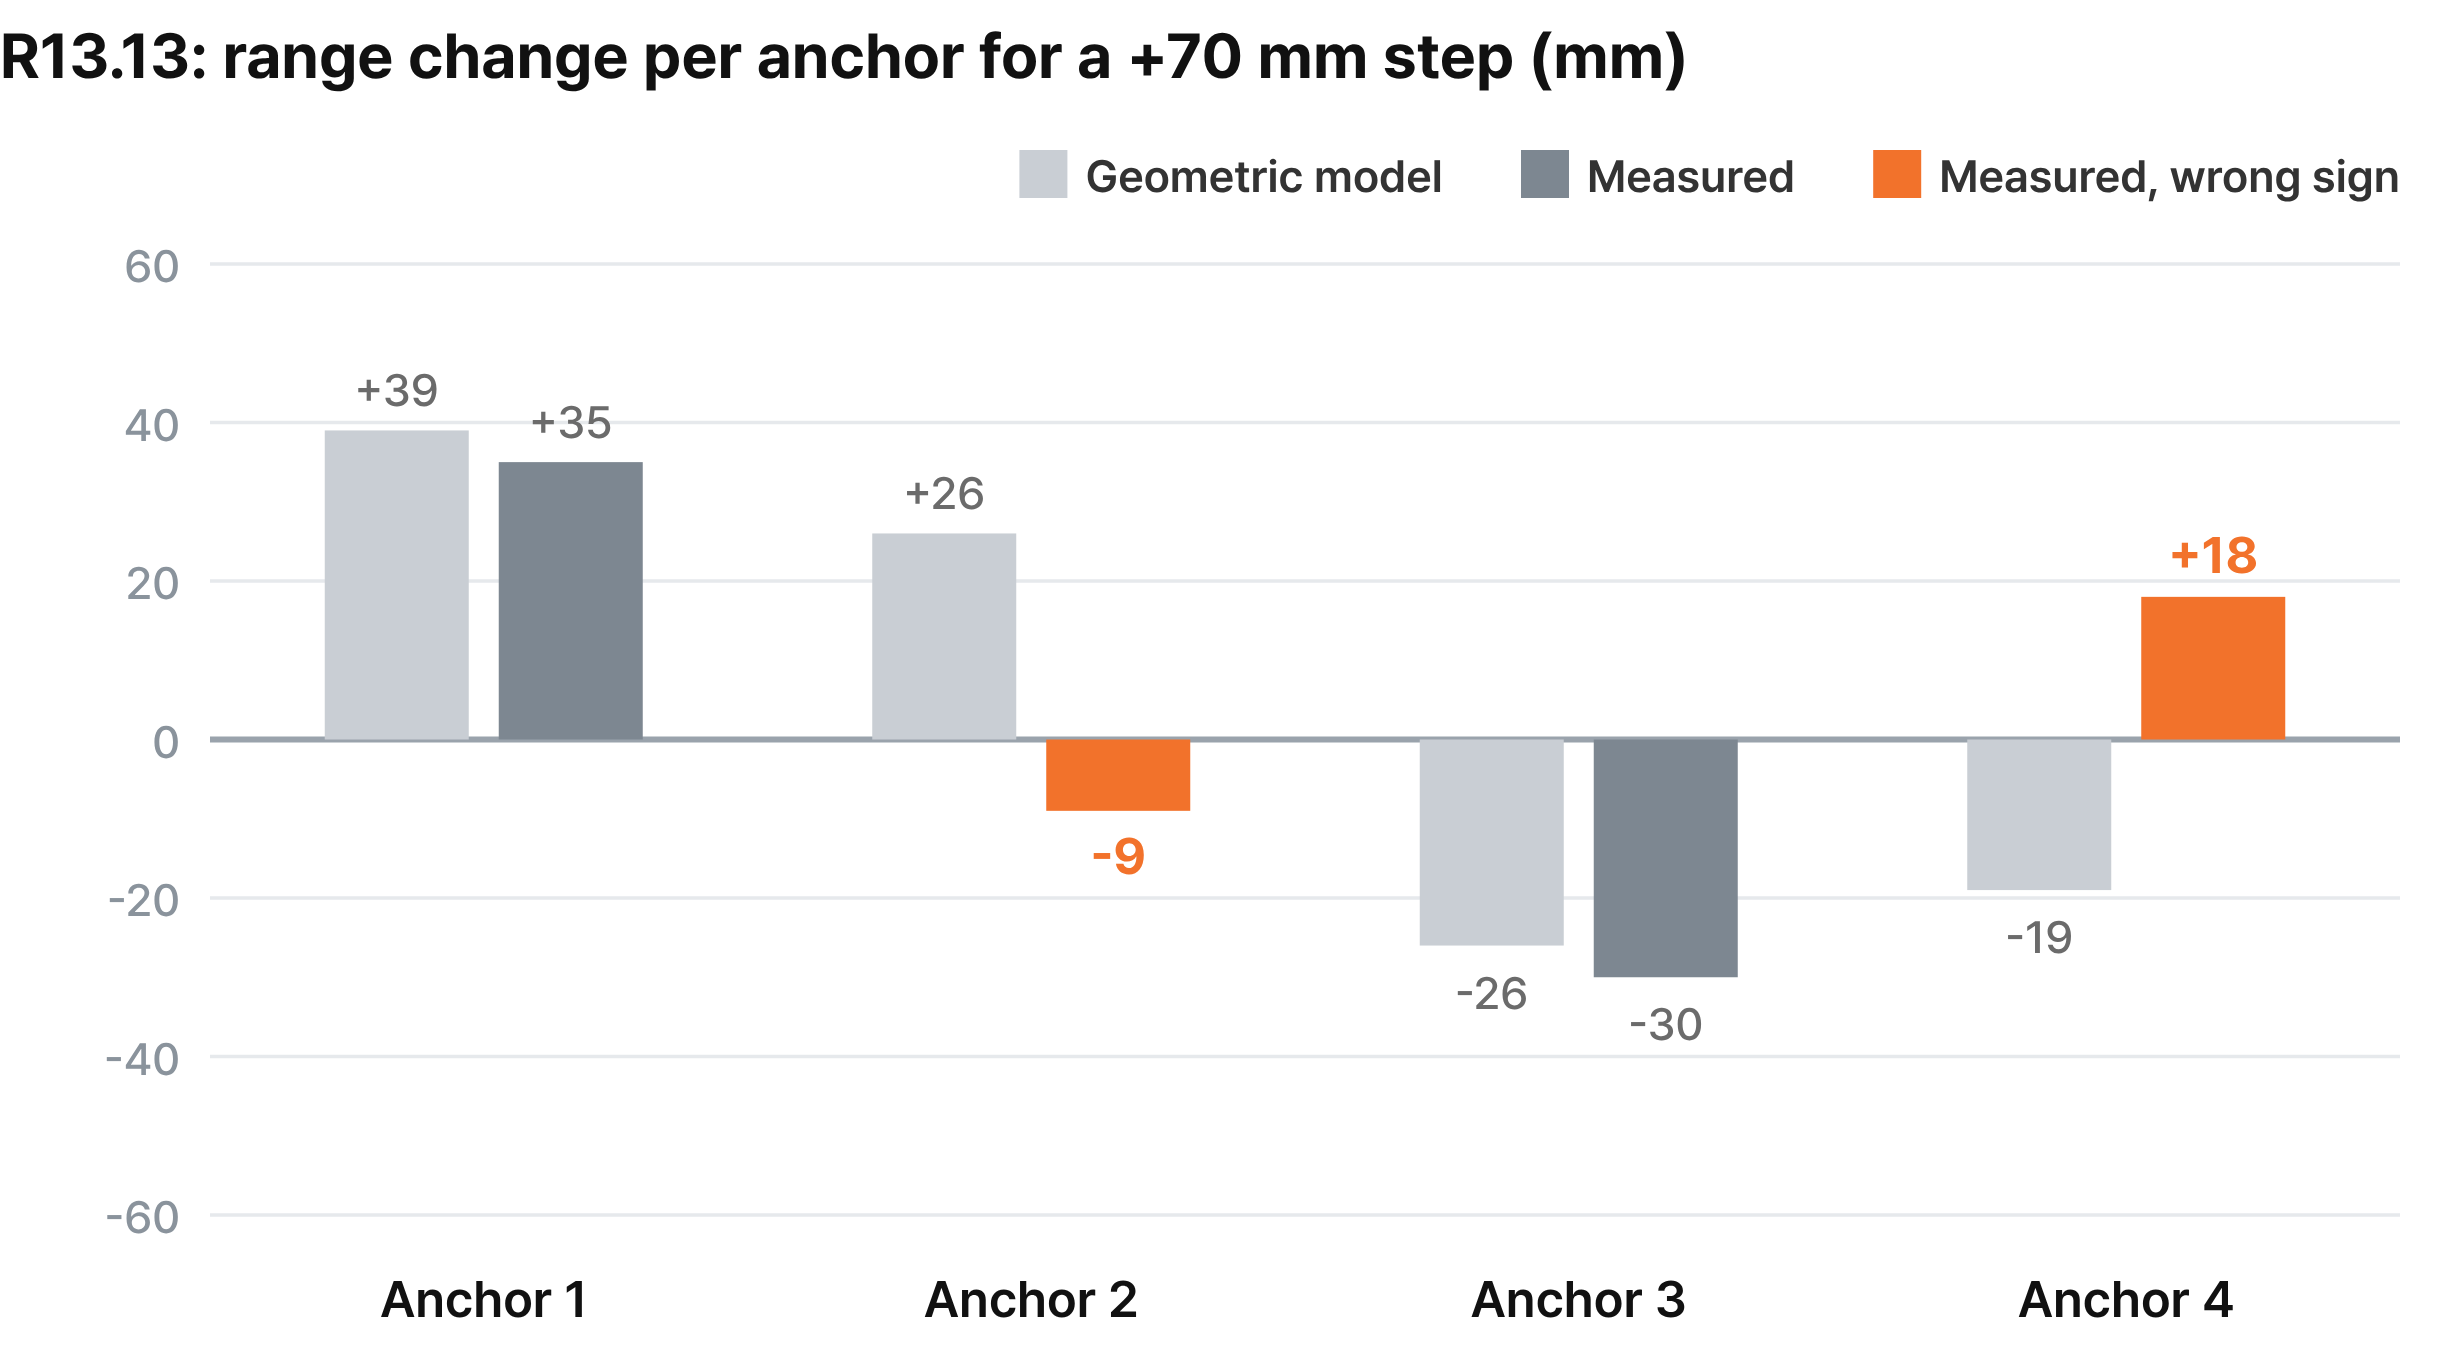
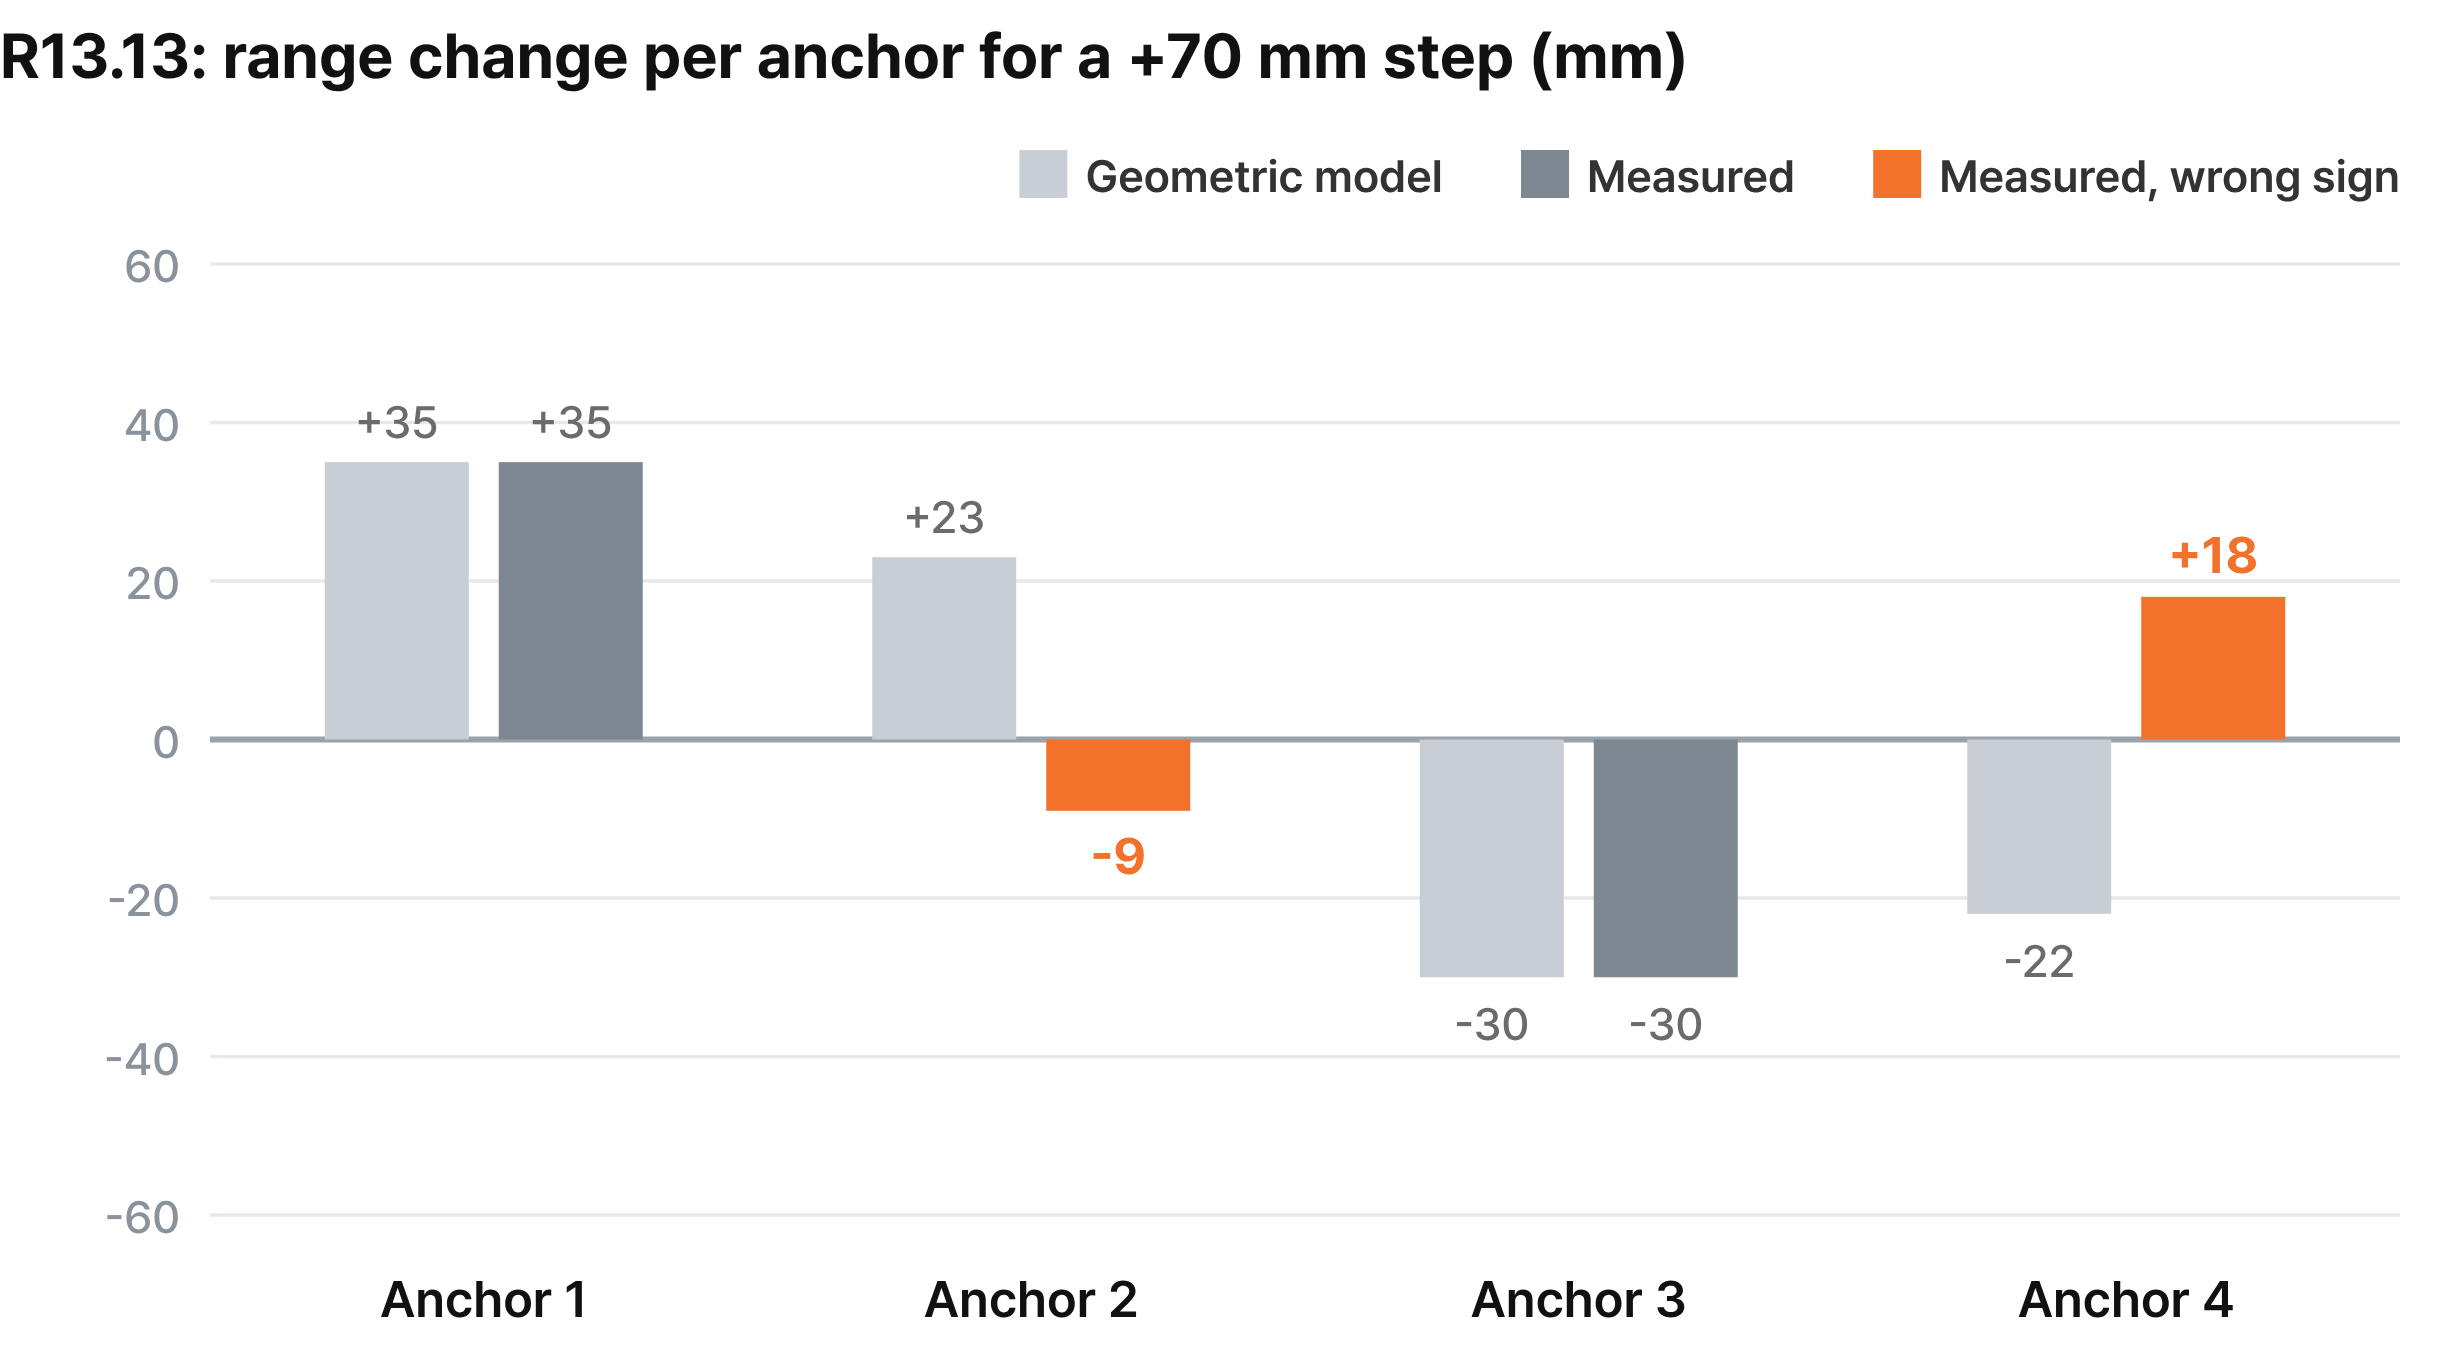
Correct geometric model values in error analysis

diff --git a/README.md b/README.md
@@ -62,9 +62,9 @@ A single tag on the structure model was moved by a known step, and the logged es
 
 <p align="center"><img src="docs/media/range_check.png" width="72%"></p>
 
-- Anchors 1 and 3 changed close to the geometric model (+35 and −30 mm against +39 and −26 mm). Anchors 2 and 4 changed in the opposite direction (−9 and +18 mm).
+- Anchors 1 and 3 changed close to the geometric model (+35 and −30 mm against +35 and −30 mm). Anchors 2 and 4 changed in the opposite direction (−9 and +18 mm against +23 and −22 mm).
 - Range noise was high in the field, so the projected uncertainty rarely met the target and the selector requested all four anchors in 99.6% of ranging cycles.
-- Using anchors 1 and 3 alone, the logged ranges give about 66–78 mm offline. Mixing in the inconsistent ranges pulled the estimate down.
+- Using anchors 1 and 3 alone, a linearized offline estimate from the logged ranges gives about 60–75 mm. Mixing in the inconsistent ranges pulled the estimate down.
 - The raw ranges are therefore not accurate enough on every link. The next steps are to check the ranging accuracy of the UWB module on its own and the effect of the installation environment (reflective surfaces, occlusion).
 
 The code in this repository is a later version (R14.4) than the field-tested versions above and has not been validated in the field.
